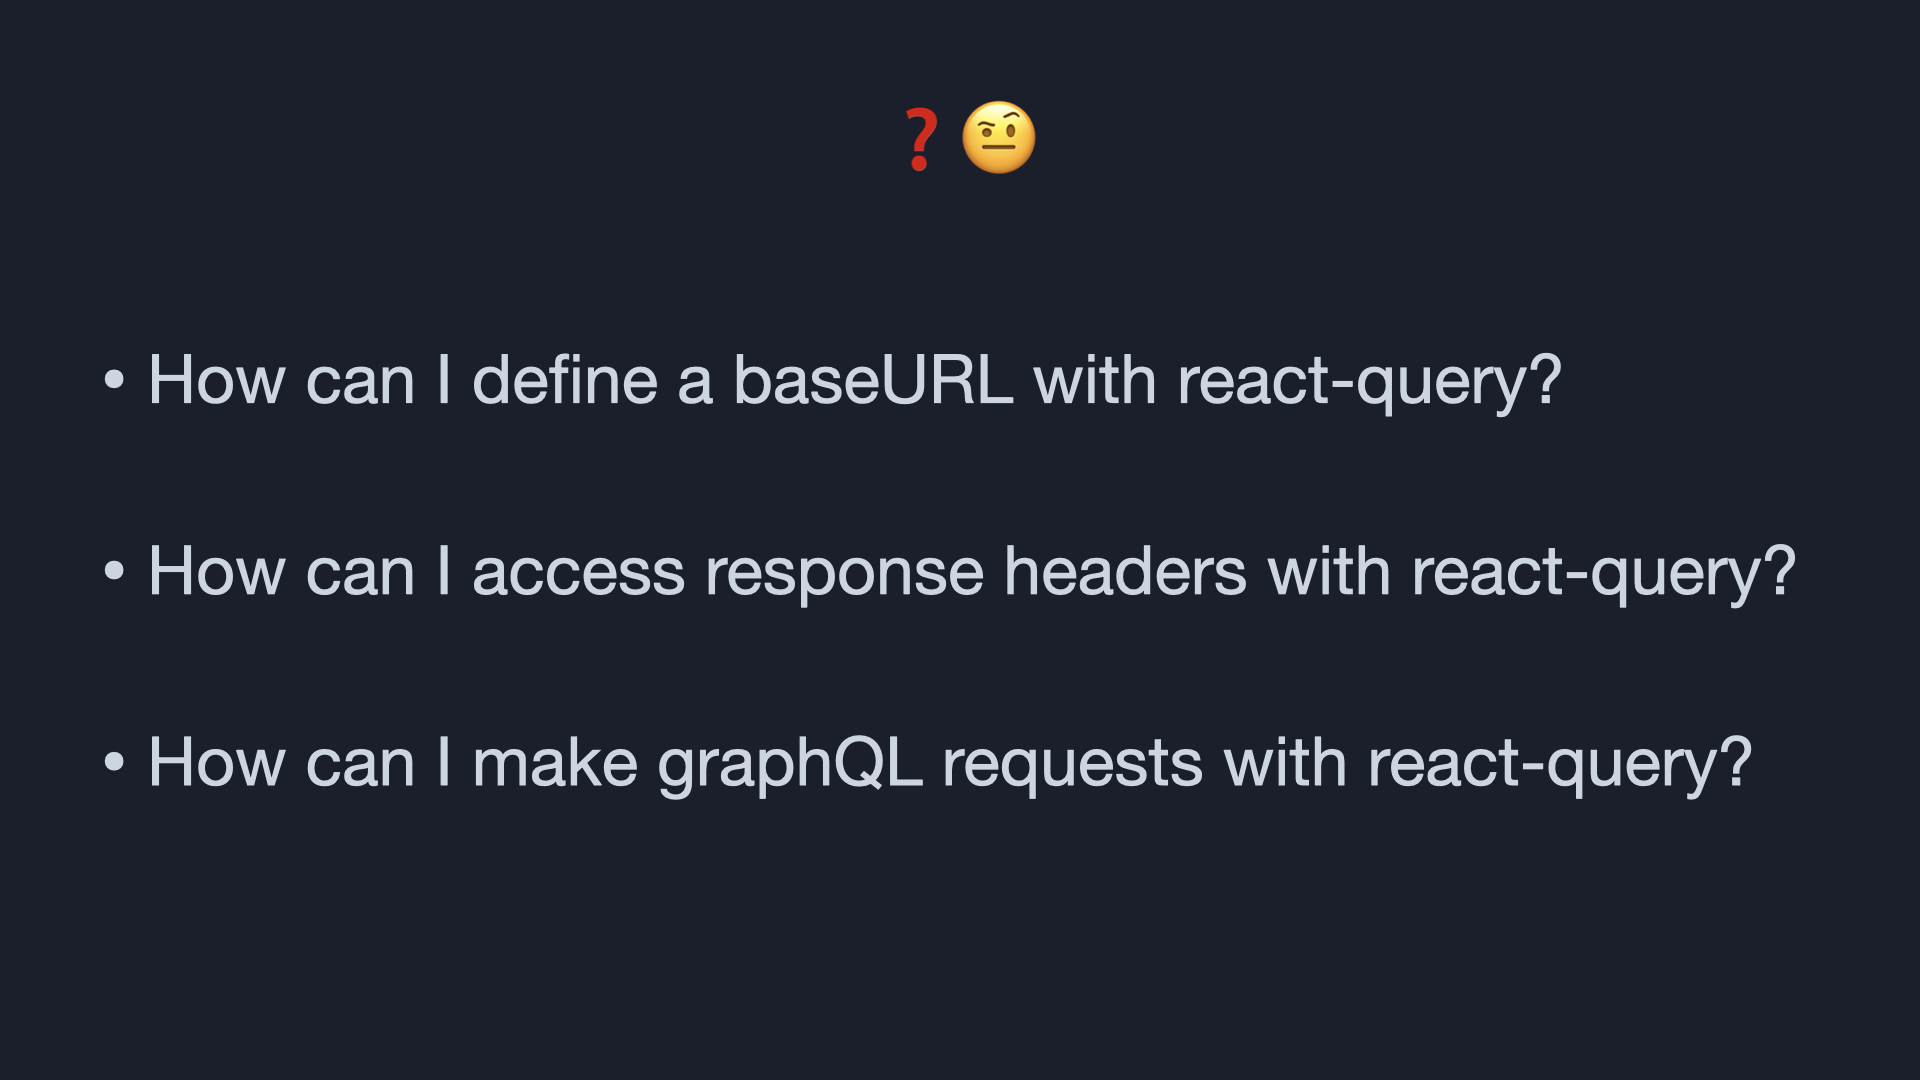
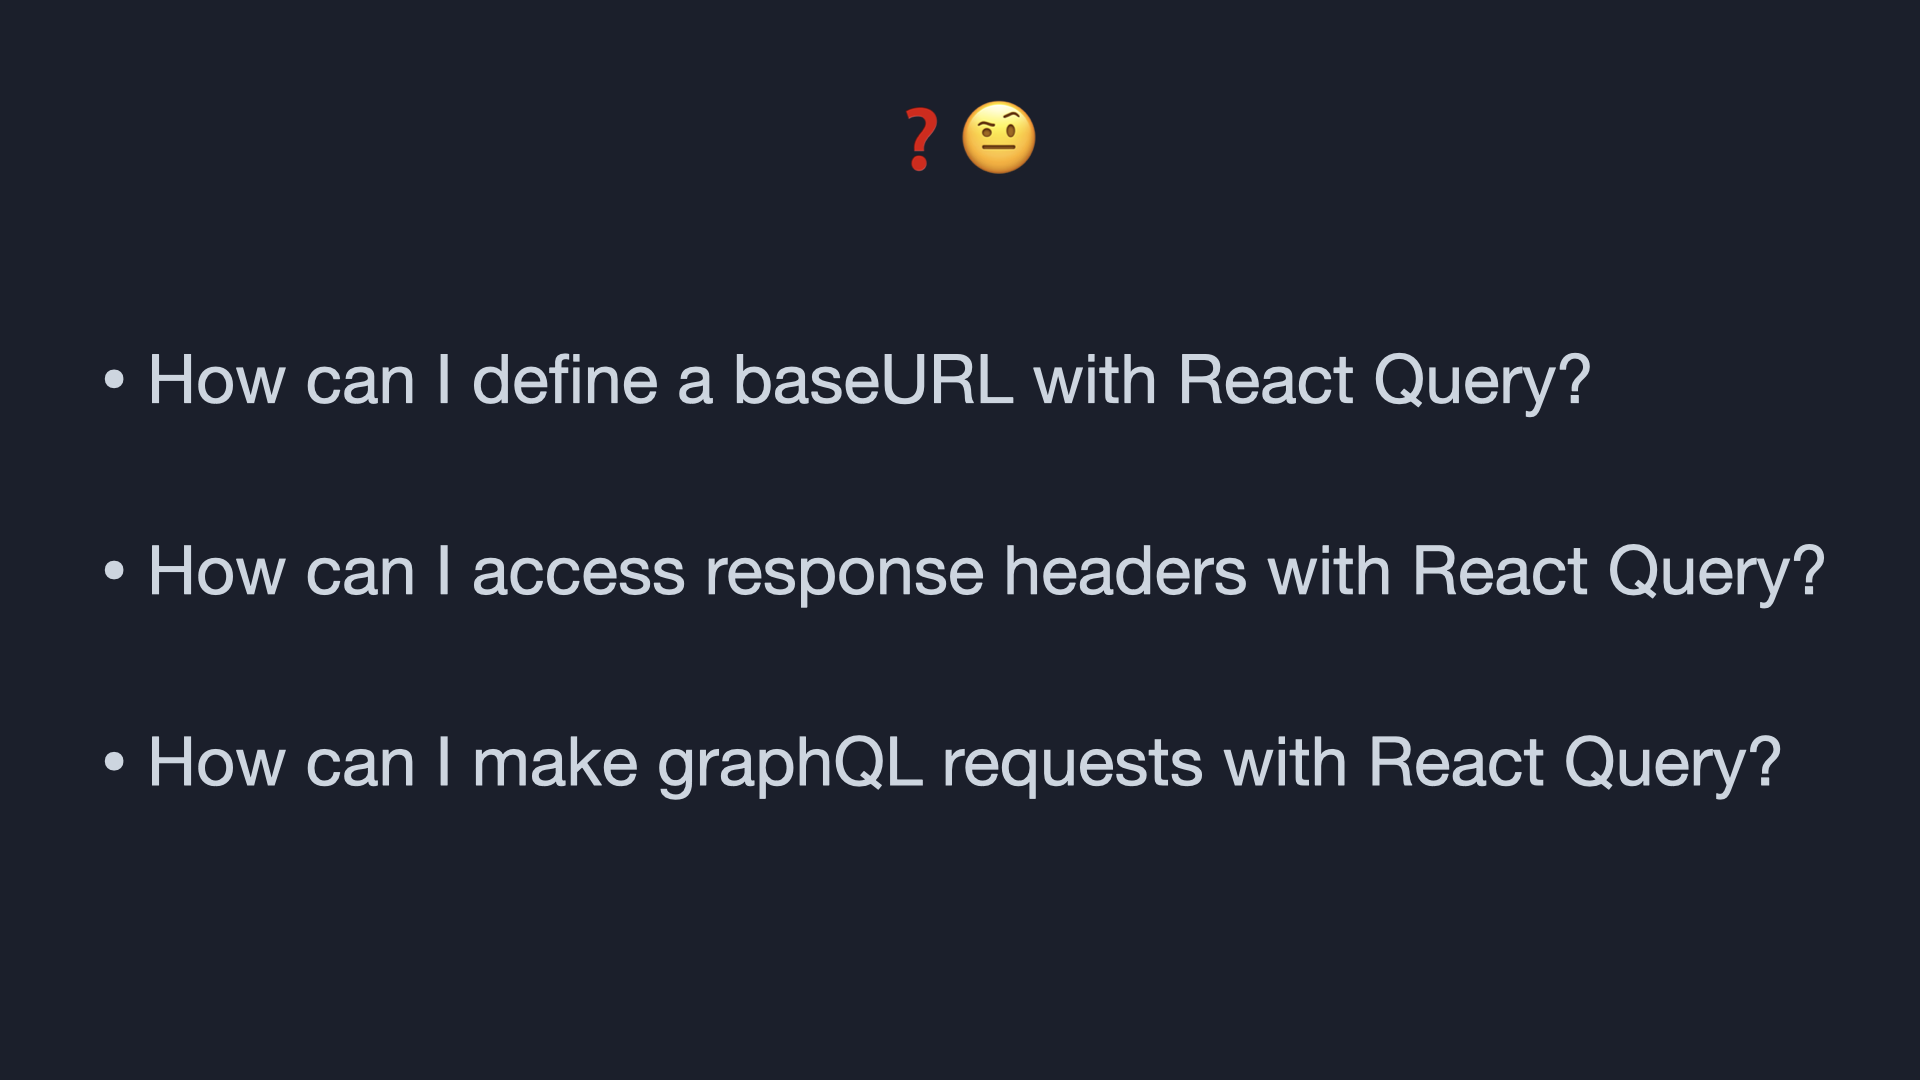
proof reading

Changed region(s): [[0.7188, 0.4889, 0.9688, 0.5806], [0.5938, 0.3056, 0.8438, 0.3972], [0.7188, 0.6722, 0.9375, 0.7333]]

diff --git a/src/components/thinking-in-react-query/index.tsx b/src/components/thinking-in-react-query/index.tsx
@@ -8,8 +8,8 @@ import { Slide } from './slide'
 
 const slides: ReadonlyArray<React.ReactNode> = [
   <p>
-    Hello everyone 👋, thanks for being here today, where I want to talk
-    about...
+    Hello everyone 👋, thanks for being here with me today, where I want
+    to talk about...
   </p>,
   <>
     <p>...tying your shoes correctly.</p>
@@ -106,8 +106,8 @@ const slides: ReadonlyArray<React.ReactNode> = [
   <>
     <p>
       All we are doing is - return a resolved Promise. Of course, React
-      Query goes very well _with_ data fetching libraries like axios,
-      fetch, graphql-request because they all produce Promises.
+      Query goes very well <i>with</i> data fetching libraries like
+      axios, fetch or graphql-request because they all produce Promises.
     </p>
     <p>
       Once we understand that React Query doesn't fetch data, it
@@ -115,12 +115,19 @@ const slides: ReadonlyArray<React.ReactNode> = [
       data fetching just disappear. Questions like:
     </p>
   </>,
-  <p>
-    All questions around data fetching usually have the same answer:
-  </p>,
   <>
     <p>
-      React Query doesn't care! Just somehow return a Promise please.
+      All questions around data fetching usually have the same answer:
+    </p>
+    <ul>
+      <li>How can I define a baseURL with React Query ?</li>
+      <li>How can I access response headers with React Query?</li>
+      <li>How can I make graphQL requests with React Query?</li>
+    </ul>
+  </>,
+  <>
+    <p>
+      React Query doesn't care! Just somehow return a Promise, please.
     </p>
     <p>Right, once we've got that, it's only fair to ask:</p>
   </>,
